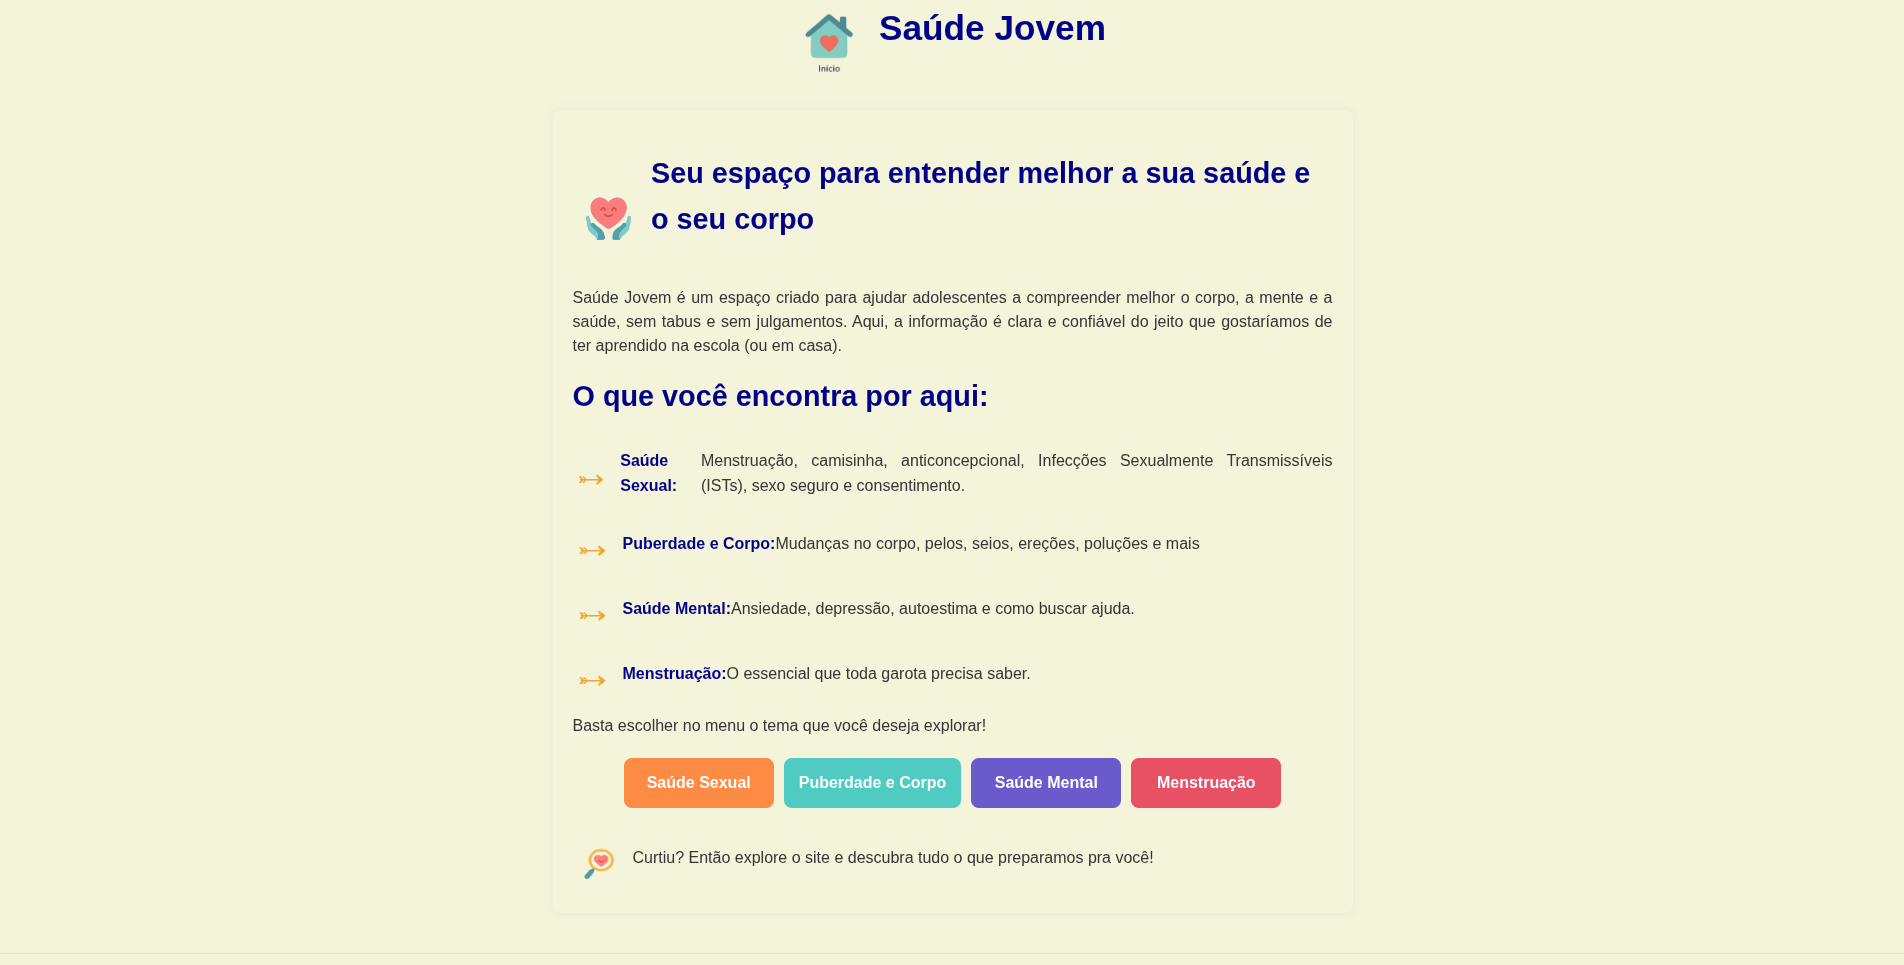
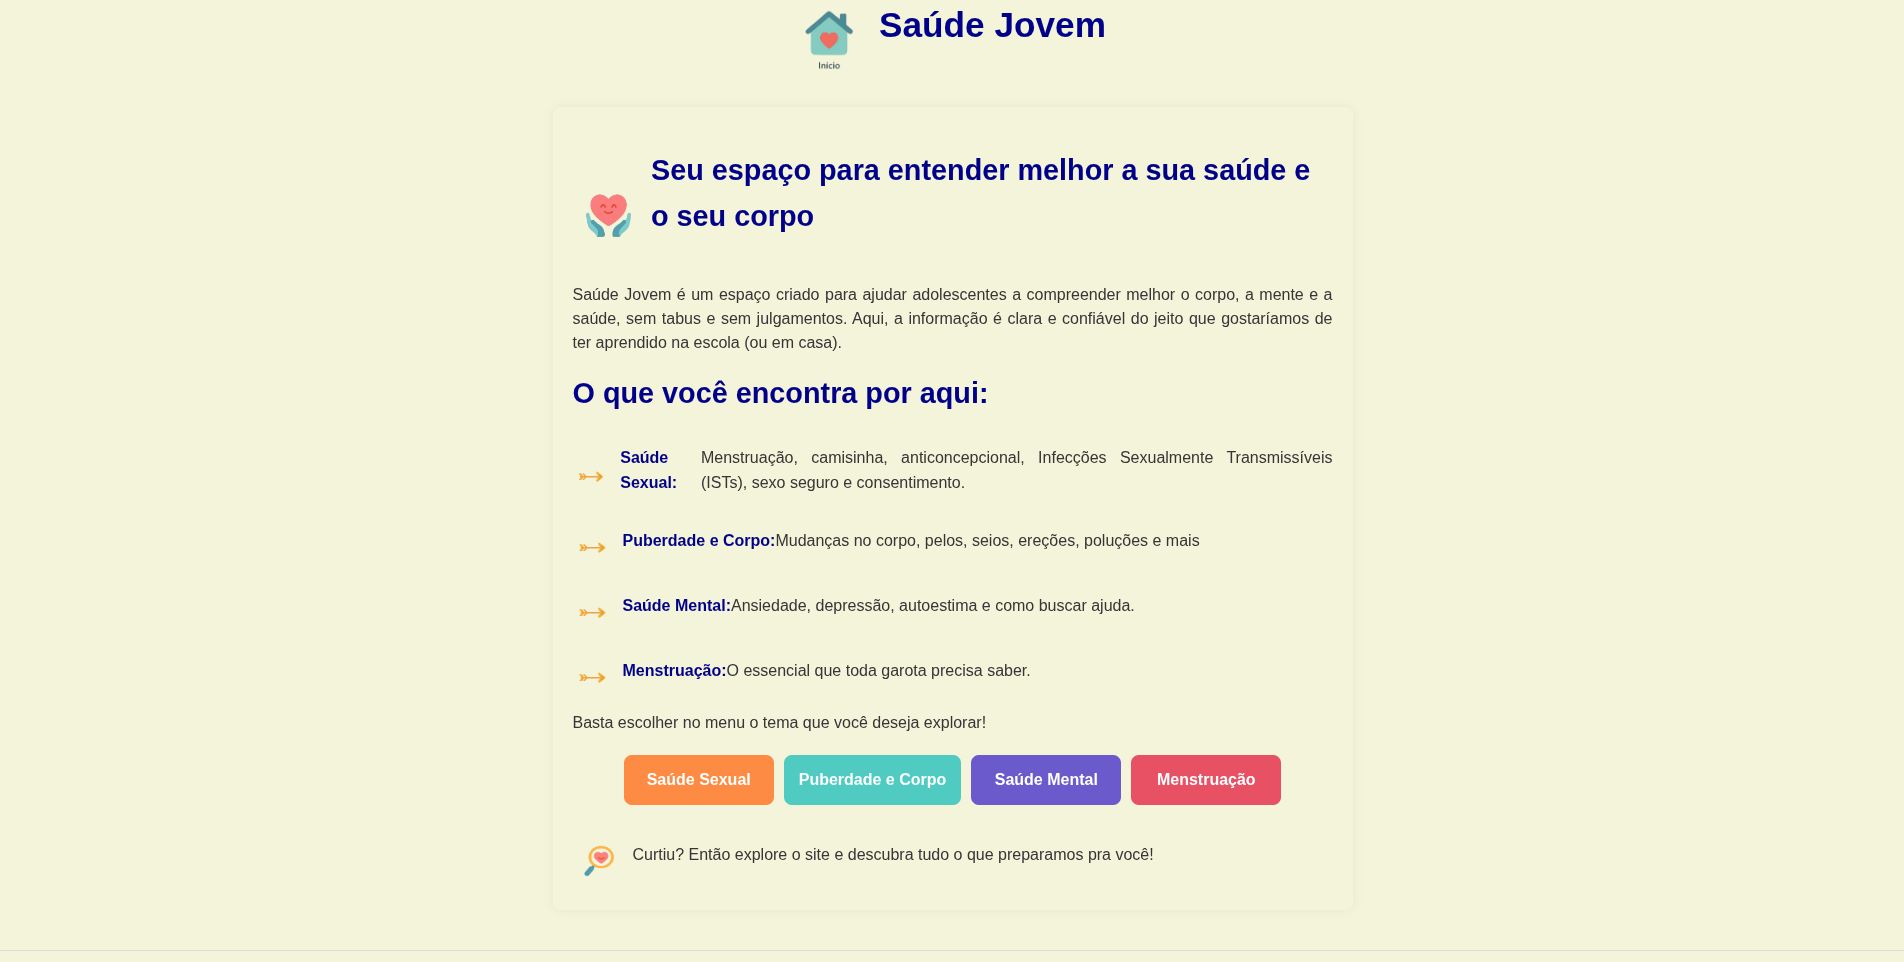
melhoração do estilo do portefolio por completo

diff --git a/index.html b/index.html
@@ -4,7 +4,15 @@
 <meta charset="UTF-8">
 <meta name="viewport" content="width=device-width, initial-scale=1">
 <title>Diego Santana | Portfólio</title>
-<meta name="description" content="Portfólio de Diego Santana, estudante de informática e desenvolvedor.">
+<meta name="description" content="Estudante de Informática e desenvolvedor. Veja meus projetos: Lumen Care, Sabor Conquista e mais.">
+<meta name="theme-color" content="#1f1f21">
+<link rel="icon" href="favicon.svg" type="image/svg+xml">
+<meta property="og:type" content="website">
+<meta property="og:title" content="Diego Santana | Portfólio">
+<meta property="og:description" content="Estudante de Informática e desenvolvedor. Veja meus projetos: Lumen Care, Sabor Conquista e mais.">
+<meta property="og:image" content="https://diego-santana-dev.vercel.app/images/og.jpg">
+<meta property="og:url" content="https://diego-santana-dev.vercel.app/">
+<meta name="twitter:card" content="summary_large_image">
 <link rel="preconnect" href="https://fonts.googleapis.com">
 <link rel="preconnect" href="https://fonts.gstatic.com" crossorigin>
 <link href="https://fonts.googleapis.com/css2?family=Montserrat:wght@400;600;800&family=Roboto:wght@400;500&display=swap" rel="stylesheet">
@@ -15,18 +23,21 @@
 <header>
   <div class="wrap">
     <a class="logo" href="#inicio">DIEGO<span>SANTANA</span></a>
-    <nav aria-label="Principal">
+    <nav id="menu-nav" aria-label="Principal">
       <a href="#inicio">Início</a>
       <a href="#sobre">Sobre</a>
       <a href="#projetos">Projetos</a>
       <a href="#contato">Contato</a>
+    </nav>
+    <div class="acoes">
       <button id="tema" aria-label="Alternar tema claro/escuro">
         <span class="knob">
           <svg class="lua" viewBox="0 0 24 24" aria-hidden="true"><path d="M21 12.8A9 9 0 1 1 11.2 3a7 7 0 0 0 9.8 9.8z"/></svg>
           <svg class="sol" viewBox="0 0 24 24" aria-hidden="true"><circle cx="12" cy="12" r="4.5"/><path d="M12 2v2.5M12 19.5V22M2 12h2.5M19.5 12H22M4.9 4.9l1.8 1.8M17.3 17.3l1.8 1.8M4.9 19.1l1.8-1.8M17.3 6.7l1.8-1.8"/></svg>
         </span>
       </button>
-    </nav>
+      <button id="menu" aria-label="Abrir menu" aria-expanded="false" aria-controls="menu-nav"><span></span><span></span><span></span></button>
+    </div>
   </div>
 </header>
 
@@ -37,6 +48,9 @@
     <h1>Meu nome é Diego</h1>
     <p class="papel">Estudante de Informática e desenvolvedor</p>
     <div class="social">
+      <a href="https://www.linkedin.com/in/diego-santana-503a62210/" target="_blank" rel="noopener" aria-label="LinkedIn">
+        <svg viewBox="0 0 24 24"><path d="M4.98 3.5a2.5 2.5 0 1 1 0 5 2.5 2.5 0 0 1 0-5zM3 9.75h4V21H3V9.75zM9.5 9.75h3.8v1.6h.06c.53-1 1.84-2.06 3.78-2.06 4.04 0 4.78 2.66 4.78 6.1V21h-4v-4.8c0-1.15-.02-2.62-1.6-2.62-1.6 0-1.85 1.25-1.85 2.54V21h-4V9.75z"/></svg>
+      </a>
       <a href="https://github.com/Diego72454" target="_blank" rel="noopener" aria-label="GitHub">
         <svg viewBox="0 0 16 16"><path d="M8 0C3.58 0 0 3.58 0 8c0 3.54 2.29 6.53 5.47 7.59.4.07.55-.17.55-.38v-1.33c-2.23.48-2.7-1.07-2.7-1.07-.36-.92-.89-1.17-.89-1.17-.73-.5.05-.49.05-.49.8.06 1.23.83 1.23.83.71 1.22 1.87.87 2.33.66.07-.52.28-.87.5-1.07-1.78-.2-3.64-.89-3.64-3.95 0-.87.31-1.59.82-2.15-.08-.2-.36-1.02.08-2.12 0 0 .67-.21 2.2.82a7.6 7.6 0 0 1 4 0c1.53-1.04 2.2-.82 2.2-.82.44 1.1.16 1.92.08 2.12.51.56.82 1.27.82 2.15 0 3.07-1.87 3.75-3.65 3.95.29.25.54.73.54 1.48v2.2c0 .21.15.46.55.38A8 8 0 0 0 16 8c0-4.42-3.58-8-8-8z"/></svg>
       </a>
@@ -80,7 +94,7 @@
       <div>
         <h3>Cardápio digital</h3>
         <p>Criei este cardápio digital para ajudar a minha turma a vender mais e juntar recursos para a conclusão do curso. Em vez de depender de anotações e conversas avulsas, os produtos ficam reunidos num só lugar, o que deixa as vendas escolares mais simples, rápidas e organizadas para quem vende e para quem compra.</p>
-        <p style="margin-top:10px">O sistema tem tela de login, front-end e back-end separados, com pagina de admin para separa os lucros e ter mais controle finaceiro das vendas, e já está em produção, sendo usado de verdade pela turma.</p>
+        <p style="margin-top:10px">O sistema tem tela de login, front-end e back-end separados, com pagina de admin onde podem ter o controle finaceiro, e já está em produção, sendo usado de verdade pela turma.</p>
         <div class="tags"><span>Front-end</span><span>Back-end</span><span>Vercel</span></div>
         <div class="links">
           <a href="https://vendasescolares.vercel.app/login" target="_blank" rel="noopener">Ver projeto</a>
@@ -109,6 +123,7 @@
 
     <article class="proj">
       <div class="thumb">
+        <!-- Para usar um print: salve em images/saude-jovem.jpg e troque o <span> por <img src="images/saude-jovem.jpg" alt="Tela do site Saúde Jovem" loading="lazy"> -->
         <img src="images/saude-jovem.jpg" alt="Tela do site Saude-jovem" loading="lazy">
       </div>
       <div>
@@ -129,7 +144,7 @@
       </div>
       <div>
         <h3>Réplica de jogo com sockets TCP</h3>
-        <p>Ludo TCP é uma implementação do jogo clássico Ludo desenvolvida em Java com sockets TCP. O jogo permite que três jogadores compitam entre si por meio de uma conexão de rede.</p>
+        <p>Ludo TCP é uma implementação do jogo clássico Ludo desenvolvida em Java com sockets TCP. O jogo permite que 3 jogadores compitam entre si através de uma conexão de rede.</p>
         <div class="tags"><span>Java</span><span>Sockets TCP</span></div>
         <div class="links">
           <a href="https://github.com/dih872/ProjetoTCPJava" target="_blank" rel="noopener">Ver no GitHub</a>
@@ -142,10 +157,12 @@
 <section id="contato" class="sec">
   <div class="wrap">
     <div class="titulo"><small>Vamos conversar</small><h2>Contato</h2></div>
-    <p>Quer falar sobre uma vaga, um projeto ou só trocar uma ideia? Me chame por e-mail ou veja meu código no GitHub.</p>
+    <p>Quer falar sobre uma vaga, um projeto ou só trocar uma ideia? Me chame por e-mail ou LinkedIn, baixe meu currículo ou veja meu código no GitHub.</p>
     <div class="botoes">
-      <a class="btn cheio" href="mailto:ds1368833@gmail.com">Enviar e-mail</a>
-      <a class="btn" href="https://github.com/Diego72454" target="_blank" rel="noopener">Ver GitHub</a>
+      <a class="btn cheio" href="curriculo-diego-santana.pdf" download>Baixar currículo (PDF)</a>
+      <a class="btn" href="mailto:ds1368833@gmail.com">E-mail</a>
+      <a class="btn" href="https://www.linkedin.com/in/diego-santana-503a62210/" target="_blank" rel="noopener">LinkedIn</a>
+      <a class="btn" href="https://github.com/Diego72454" target="_blank" rel="noopener">GitHub</a>
     </div>
   </div>
 </section>
@@ -166,6 +183,25 @@ const topo=document.getElementById('topo');
 addEventListener('scroll',()=>topo.classList.toggle('on',scrollY>500),{passive:true});
 topo.addEventListener('click',()=>scrollTo({top:0}));
 document.getElementById('ano').textContent=new Date().getFullYear();
+
+/* menu do celular */
+const menuBtn=document.getElementById('menu'),nav=document.getElementById('menu-nav');
+function fechaMenu(){nav.classList.remove('aberto');menuBtn.setAttribute('aria-expanded','false');menuBtn.setAttribute('aria-label','Abrir menu')}
+menuBtn.addEventListener('click',()=>{const a=nav.classList.toggle('aberto');menuBtn.setAttribute('aria-expanded',a);menuBtn.setAttribute('aria-label',a?'Fechar menu':'Abrir menu')});
+nav.querySelectorAll('a').forEach(l=>l.addEventListener('click',fechaMenu));
+addEventListener('keydown',e=>{if(e.key==='Escape')fechaMenu()});
+/* destaque da seção atual no menu */
+if('IntersectionObserver' in window){
+  const links=[...nav.querySelectorAll('a')];
+  const spy=new IntersectionObserver(es=>es.forEach(e=>{if(e.isIntersecting){links.forEach(l=>l.classList.toggle('ativo',l.getAttribute('href')==='#'+e.target.id))}}),{rootMargin:'-45% 0px -50% 0px'});
+  document.querySelectorAll('#inicio,#sobre,#projetos,#contato').forEach(sec=>spy.observe(sec));
+  /* animação suave ao rolar */
+  if(!matchMedia('(prefers-reduced-motion: reduce)').matches){
+    const alvos=document.querySelectorAll('.titulo,#sobre p,.skill,.proj,#contato p,.botoes');
+    const rev=new IntersectionObserver(es=>es.forEach(e=>{if(e.isIntersecting){e.target.classList.add('visivel');rev.unobserve(e.target);if(e.target.style.transitionDelay)setTimeout(()=>{e.target.style.transitionDelay=''},900)}}),{threshold:.12});
+    alvos.forEach((el,i)=>{el.classList.add('reveal');if(el.classList.contains('skill'))el.style.transitionDelay=(i%4)*60+'ms';rev.observe(el)});
+  }
+}
 </script>
 </body>
 </html>

diff --git a/style.css b/style.css
@@ -17,12 +17,20 @@ a{color:inherit}
 
 /* topo */
 header{position:fixed;inset:0 0 auto 0;z-index:10;background:color-mix(in srgb,var(--bg) 92%,transparent);backdrop-filter:blur(6px);border-bottom:2px solid var(--accent)}
-header .wrap{display:flex;align-items:center;justify-content:space-between;height:64px}
+header .wrap{display:flex;align-items:center;justify-content:space-between;gap:16px;height:64px}
+.acoes{display:flex;align-items:center;gap:12px}
+#menu{display:none;width:40px;height:40px;background:none;border:0;cursor:pointer;position:relative}
+#menu span{position:absolute;left:9px;right:9px;height:2px;border-radius:2px;background:var(--text);transition:transform .25s,opacity .2s,top .25s}
+#menu span:nth-child(1){top:13px}#menu span:nth-child(2){top:19px}#menu span:nth-child(3){top:25px}
+#menu[aria-expanded="true"] span:nth-child(1){top:19px;transform:rotate(45deg)}
+#menu[aria-expanded="true"] span:nth-child(2){opacity:0}
+#menu[aria-expanded="true"] span:nth-child(3){top:19px;transform:rotate(-45deg)}
 .logo{font-weight:800;font-size:1.5rem;text-decoration:none;letter-spacing:-.5px}
 .logo span{color:var(--accent)}
 nav{display:flex;align-items:center;gap:28px}
 nav a{text-decoration:none;font-weight:600;font-size:.9rem;letter-spacing:.5px}
-nav a:hover{color:var(--accent)}
+nav a:hover,nav a.ativo{color:var(--accent)}
+nav a.ativo{box-shadow:0 2px 0 var(--accent)}
 /* botão de tema: a bolinha desliza e troca a lua pelo sol */
 #tema{width:58px;height:30px;padding:0;border-radius:99px;border:1px solid var(--line);background:var(--bg2);cursor:pointer;position:relative;transition:background .3s,border-color .3s}
 #tema:hover{border-color:var(--accent)}
@@ -80,14 +88,15 @@ section.sec{padding:96px 0}
 .chamada{text-align:center;color:var(--accent);font:600 clamp(1.2rem,3vw,1.9rem) 'Montserrat',sans-serif;margin-top:80px}
 
 /* projetos */
-.proj{display:grid;grid-template-columns:1.1fr 1fr;gap:40px;align-items:center;margin-bottom:64px}
+.proj{display:grid;grid-template-columns:1.1fr 1fr;gap:36px;align-items:center;margin-bottom:40px;padding:24px;background:var(--card);border:1px solid var(--line);border-radius:16px;box-shadow:0 8px 24px rgba(0,0,0,.14);transition:transform .25s,box-shadow .25s,border-color .25s,opacity .7s}
 .proj:nth-child(even){grid-template-columns:1fr 1.1fr}
 .proj:nth-child(even) .thumb{order:2}
 .thumb{aspect-ratio:16/10;border-radius:8px;background:linear-gradient(135deg,var(--bg2),var(--card));border:1px solid var(--line);display:grid;place-items:center;overflow:hidden}
 .thumb img{width:100%;height:100%;object-fit:cover}
 .thumb span{font:800 3rem 'Montserrat',sans-serif;color:var(--accent);opacity:.85}
 .proj h3{color:var(--accent);font-size:1.9rem;font-weight:600;margin-bottom:8px}
-.tags{display:flex;flex-wrap:wrap;gap:6px 16px;margin:14px 0 20px;color:var(--accent);font:600 .9rem 'Montserrat',sans-serif}
+.tags{display:flex;flex-wrap:wrap;gap:8px;margin:16px 0 20px;font:600 .8rem 'Montserrat',sans-serif}
+.tags span{padding:4px 13px;border:1px solid var(--accent);border-radius:99px;color:var(--accent);background:color-mix(in srgb,var(--accent) 10%,transparent)}
 .links{display:flex;flex-wrap:wrap;gap:10px 24px}
 .links a{font-weight:600;text-decoration:none;border-bottom:2px solid var(--accent);padding-bottom:2px}
 .links a:hover{color:var(--accent)}
@@ -107,7 +116,6 @@ footer{text-align:center;padding:26px;color:var(--muted);font-size:.9rem;border-
 #topo.on{opacity:1;pointer-events:auto}
 
 @media(max-width:760px){
-  nav{gap:14px} nav a{font-size:.78rem}
   .proj,.proj:nth-child(even){grid-template-columns:1fr;gap:20px}
   .proj:nth-child(even) .thumb{order:0}
 }
@@ -116,7 +124,6 @@ footer{text-align:center;padding:26px;color:var(--muted);font-size:.9rem;border-
   .logo{font-size:0}
   .logo::before{content:"D";font-size:1.5rem}
   .logo::after{content:"S";font-size:1.5rem;color:var(--accent)}
-  nav{gap:12px} nav a{font-size:.74rem;letter-spacing:.2px}
   #tema{width:50px;height:28px}
   .knob{width:20px;height:20px}
   :root[data-theme="light"] .knob{transform:translateX(22px)}
@@ -125,4 +132,20 @@ footer{text-align:center;padding:26px;color:var(--muted);font-size:.9rem;border-
   .wrap{padding:0 18px}
   section.sec{padding:72px 0}
 }
+/* animação ao rolar (as classes são adicionadas pelo JavaScript) */
+.reveal{opacity:0;transform:translateY(26px);transition:opacity .7s ease,transform .7s ease}
+.reveal.visivel{opacity:1;transform:none}
+.proj:hover{transform:translateY(-4px);box-shadow:0 14px 32px rgba(0,0,0,.24);border-color:var(--accent)}
+.proj.reveal.visivel{transition:transform .25s,box-shadow .25s,border-color .25s,opacity .7s}
+.skill.reveal.visivel{transition:transform .2s,opacity .7s}
+.skill.reveal.visivel:hover{transform:translateY(-4px)}
+@media(max-width:760px){
+  #menu{display:block}
+  nav{position:absolute;top:64px;left:0;right:0;flex-direction:column;align-items:stretch;gap:0;background:var(--bg);border-bottom:2px solid var(--accent);max-height:0;overflow:hidden;visibility:hidden;transition:max-height .3s ease,visibility .3s}
+  nav.aberto{max-height:320px;visibility:visible}
+  nav a{padding:16px 24px;font-size:.95rem;border-top:1px solid var(--line)}
+  nav a.ativo{box-shadow:inset 4px 0 0 var(--accent)}
+  .proj{padding:18px}
+}
+@media(min-width:761px){.skills{grid-template-columns:repeat(4,1fr)}}
 @media(prefers-reduced-motion:reduce){*{animation:none!important;transition:none!important;scroll-behavior:auto!important}}
